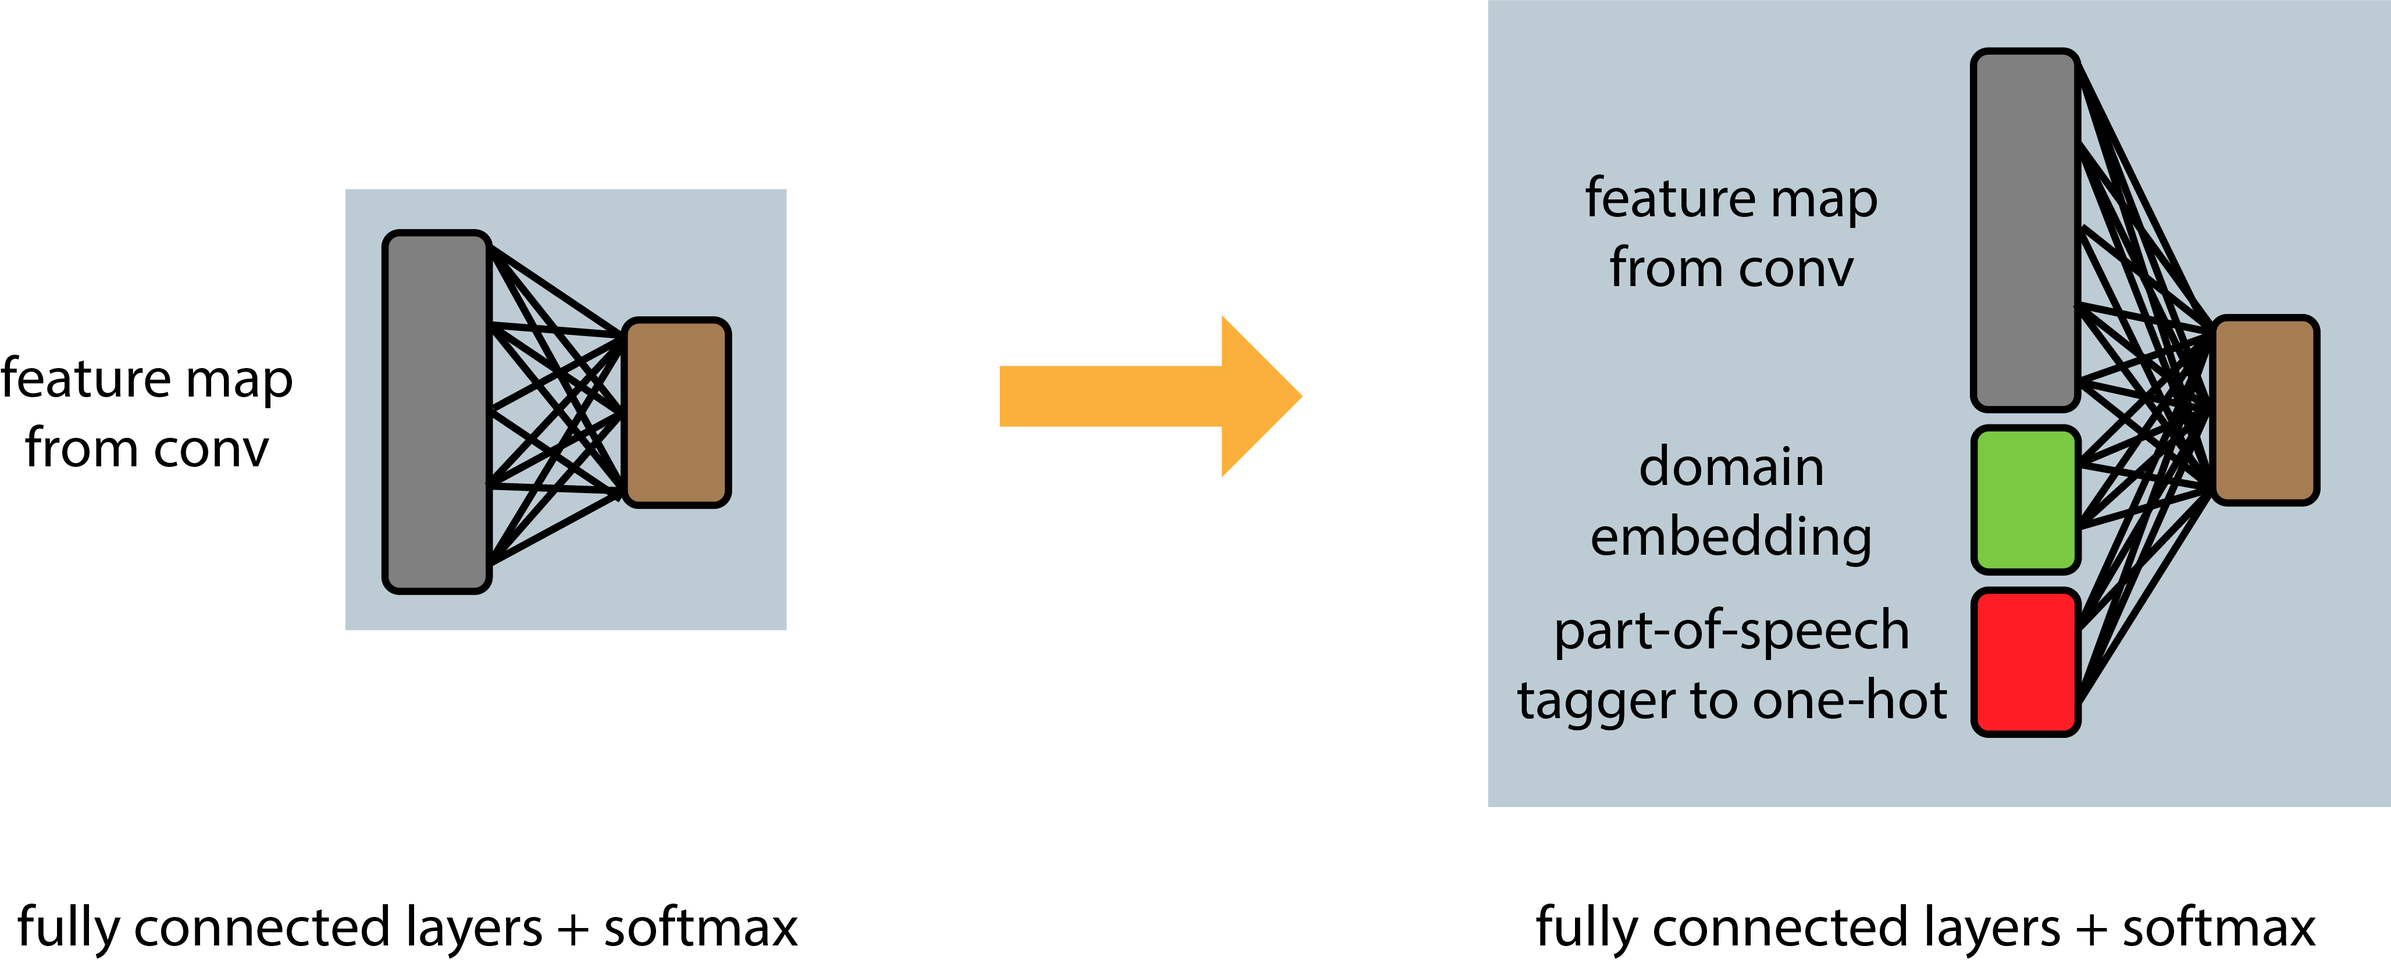
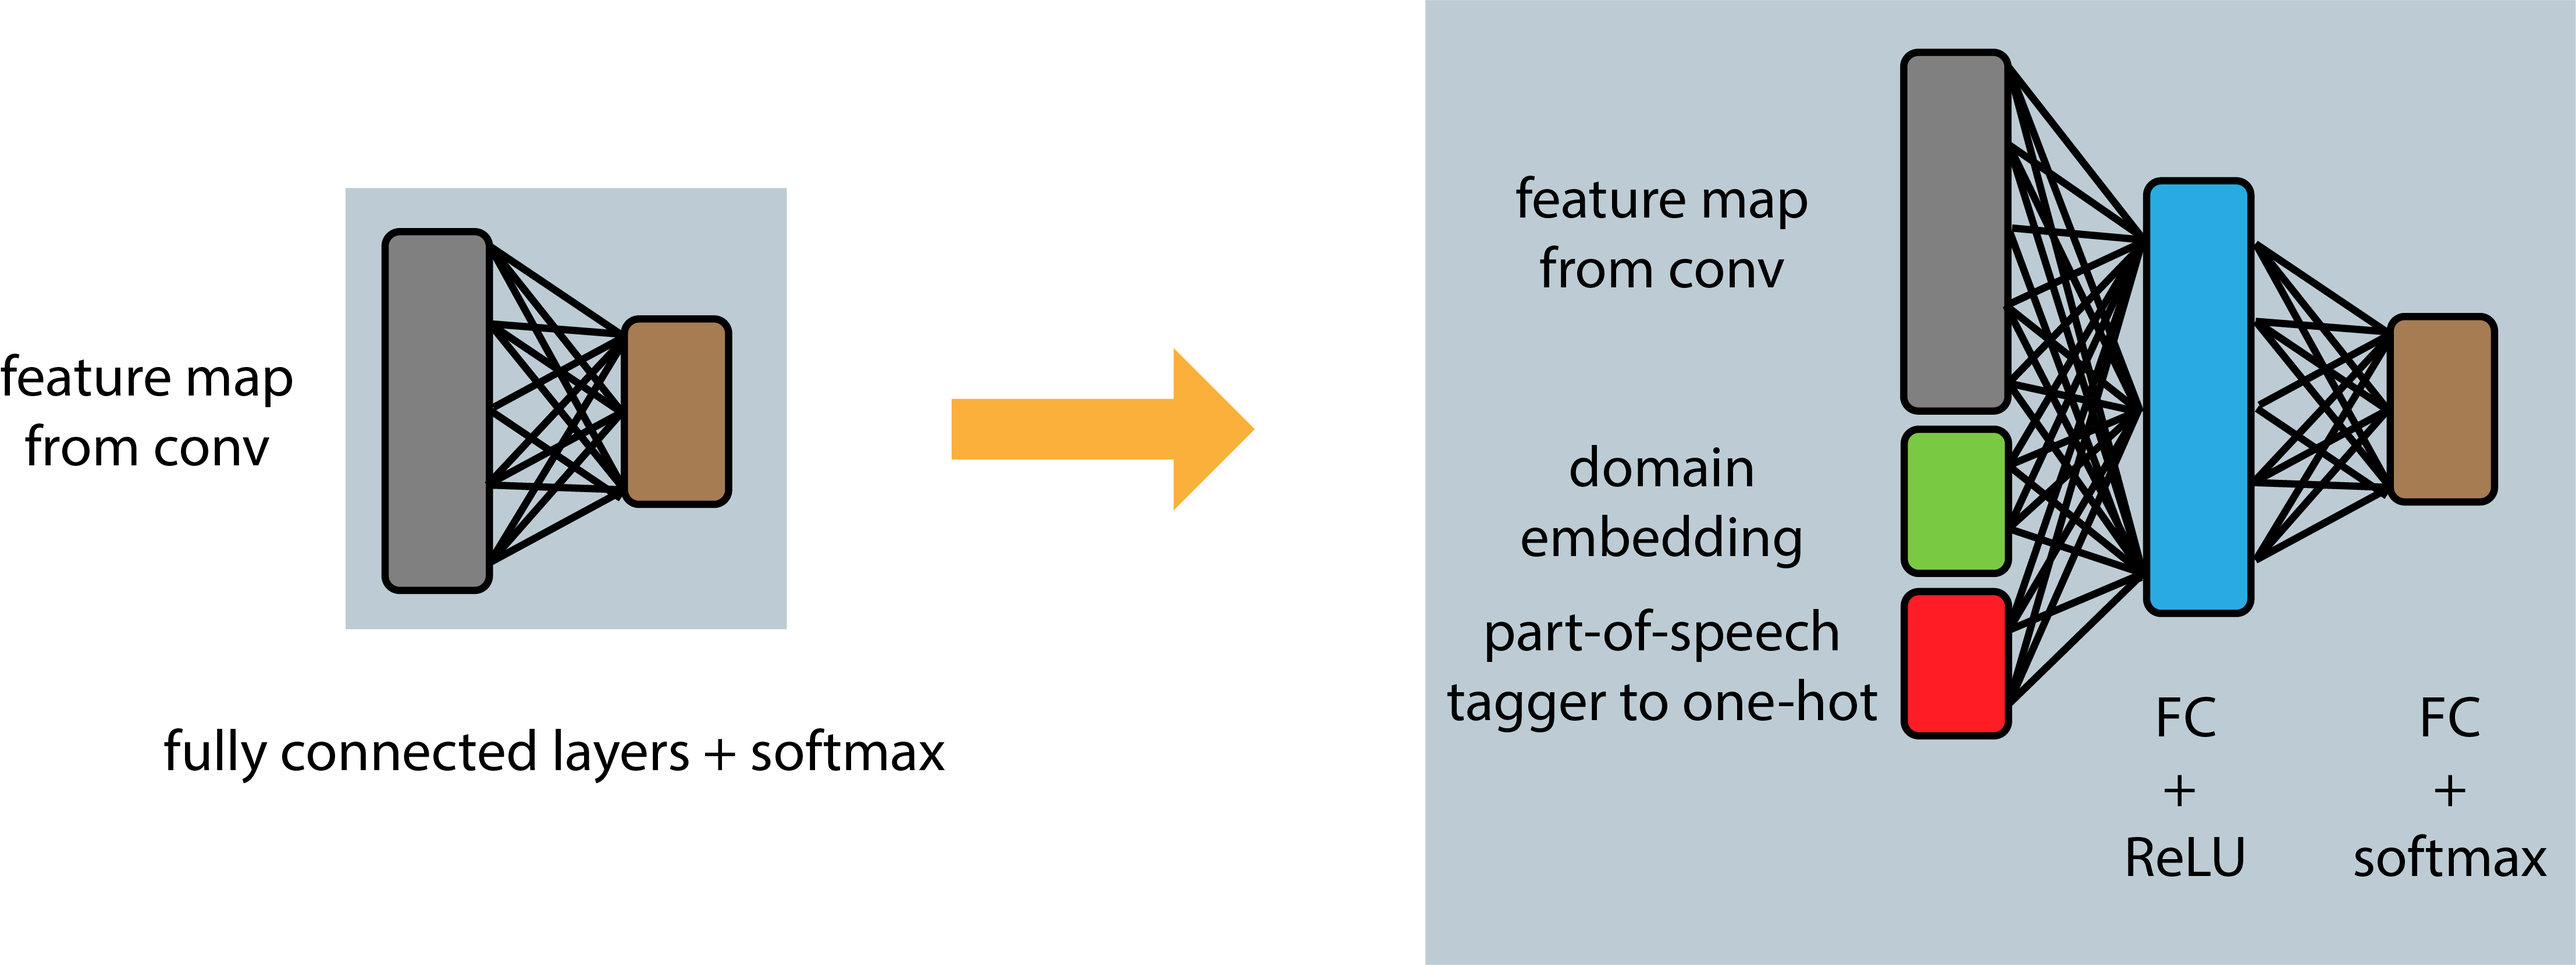
no message

diff --git a/README.md b/README.md
@@ -23,7 +23,7 @@ The two embeddings are:
 1. General-purpose GloVe embeddings 
 2. Domain-specific embeddings (can be created using gensim-word2vec)
 
-In my "triple embeddings" model, in the last layer, feature maps concatenated with domain embeddings of the word as well as its part-of-speech tagger (stanford) is feeded to the fully-connected layer.
+In my "triple embeddings" model, feature map output from the conv layer is concatenated with domain embeddings of the word as well as its part-of-speech tagger (stanford), and then it is feeded to a fully-connected neural network with one hidden layer of size 50.
 
 <img src="image2_2.png" alt="drawing" width="550px"/>
 
